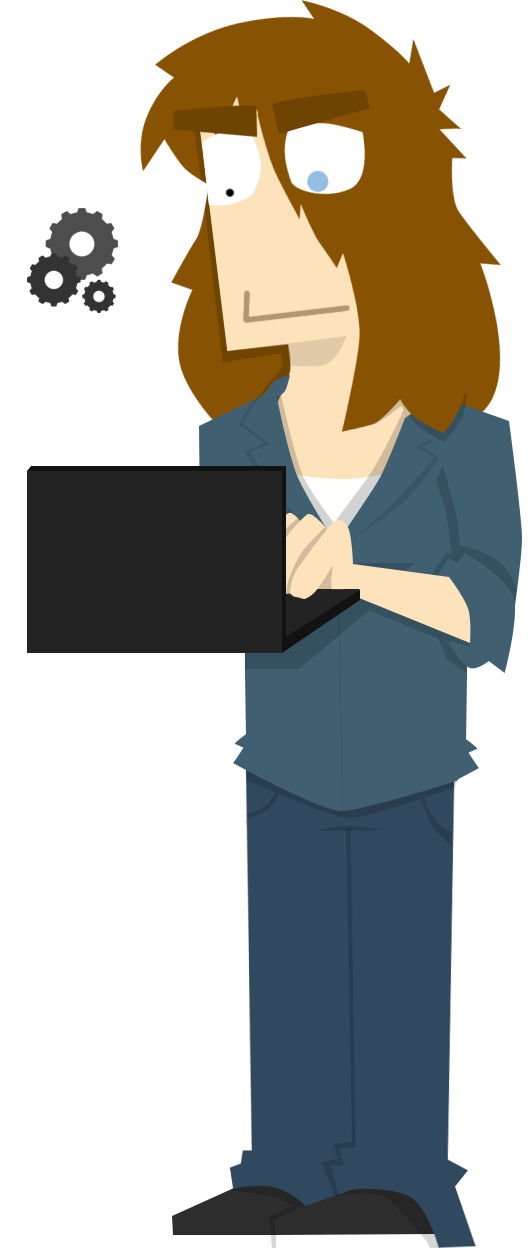
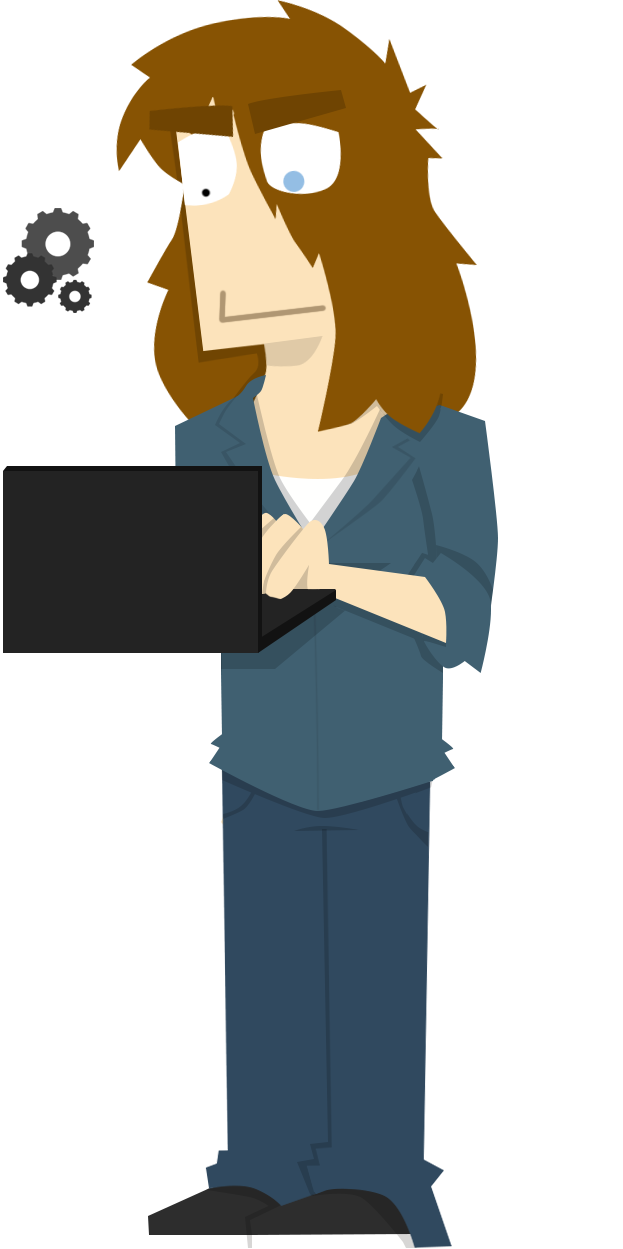
Dernière image importée, cv fini pour le moment

diff --git a/src/components/experience-content.js b/src/components/experience-content.js
@@ -1,6 +1,6 @@
 import React from 'react';
 
-import HobbiesCharacter from '../assets/images/hobbies.png';
+import ExperienceCharacter from '../assets/images/experience.png';
 
 
 import Bubble from './shared/bubble';
@@ -15,7 +15,7 @@ const ExperienceContent = () => {
 				<Experience />
 			</div>
 			<div className="div-character">
-				<img src={HobbiesCharacter} alt="character-cv" />
+				<img src={ExperienceCharacter} alt="character-cv" />
 			</div>
 			<Bubble className='bubble' content='Il en manque non ?' />
 		</div>

diff --git a/src/assets/styles/experience.scss b/src/assets/styles/experience.scss
@@ -16,8 +16,14 @@
             color: rgb(21, 226, 21);
     
         }
+
+        
     }
 
+    a {
+        color: rgb(21, 226, 21);
+        font-weight: bold;
+    }
   
 
     p, li {
